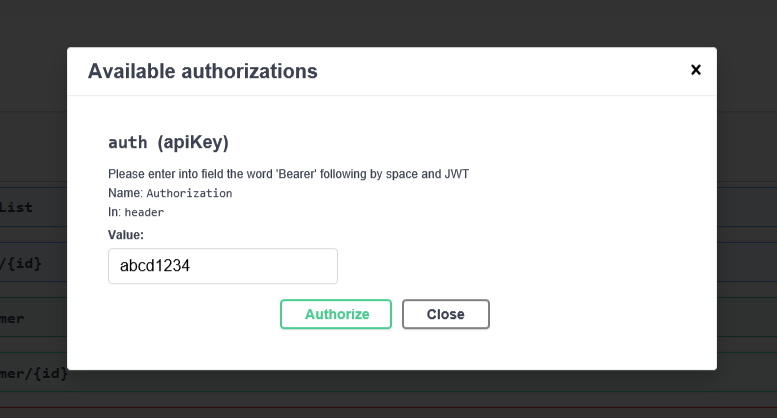
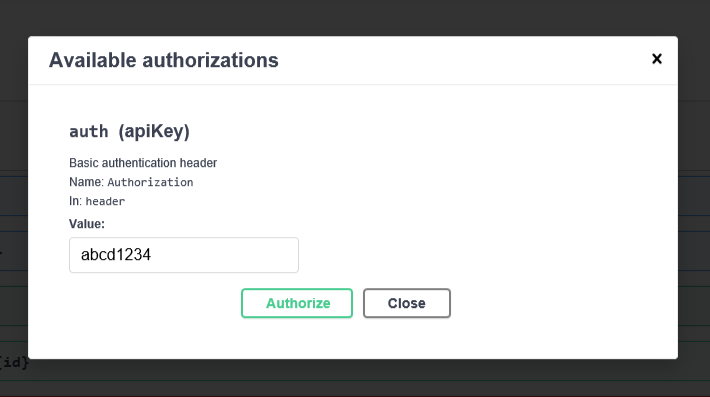
Updated descriptions

Changed region(s): [[0.0, 0.0907, 1.0, 0.937], [0.3408, 0.6952, 0.6507, 0.8161], [0.0, 0.9975, 1.0, 1.0]]

diff --git a/CustomerApp.Service/Startup.cs b/CustomerApp.Service/Startup.cs
@@ -55,7 +55,7 @@ namespace CustomerApp.Service
                             new OpenApiSecurityScheme
                             {
                                 In = ParameterLocation.Header,
-                                Description = "Please enter into field the word 'Bearer' following by space and JWT",
+                                Description = "Basic authentication header",
                                 Name = "Authorization",
                                 Type = SecuritySchemeType.ApiKey
                             });
